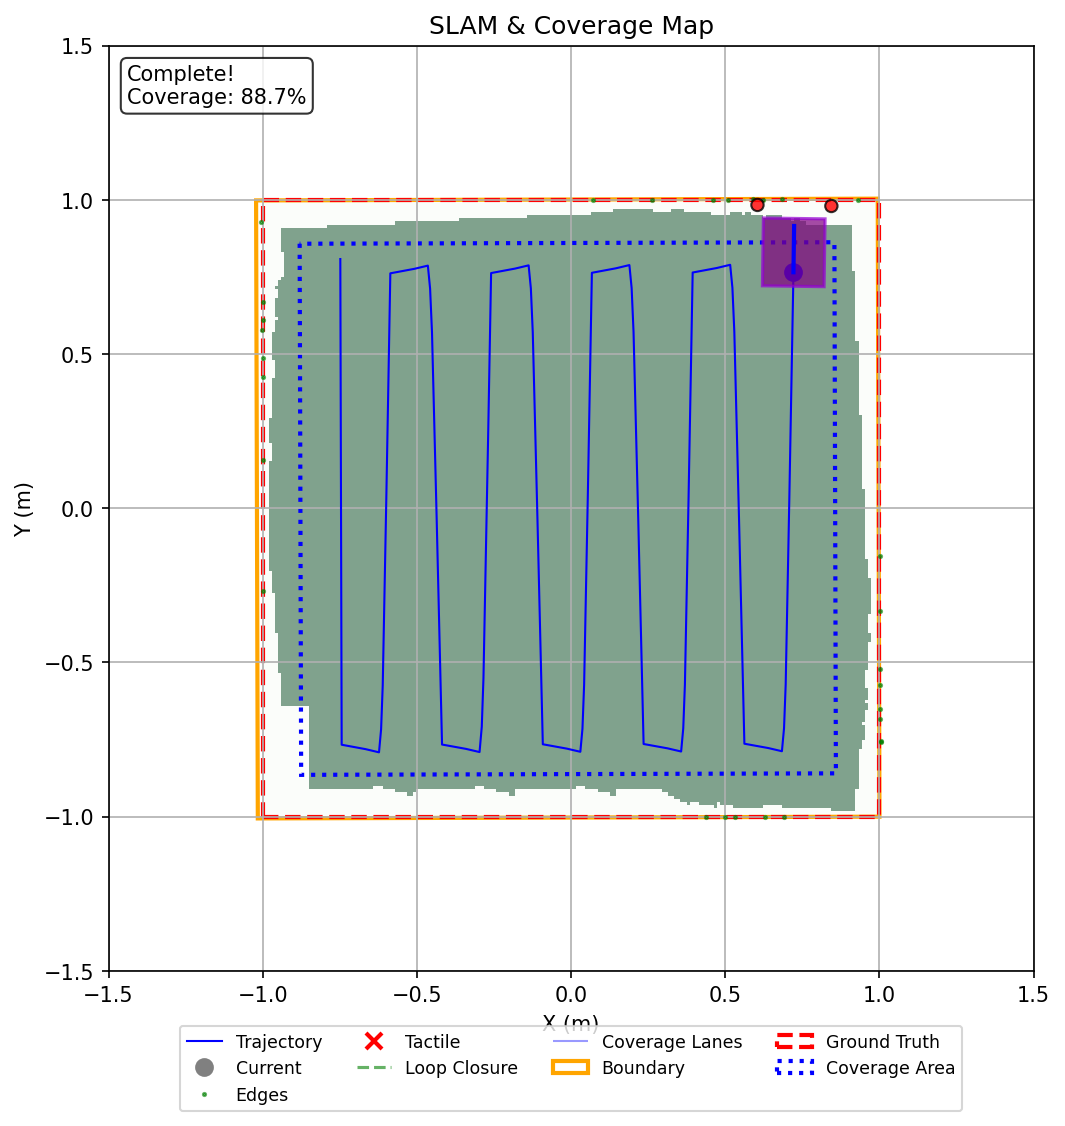
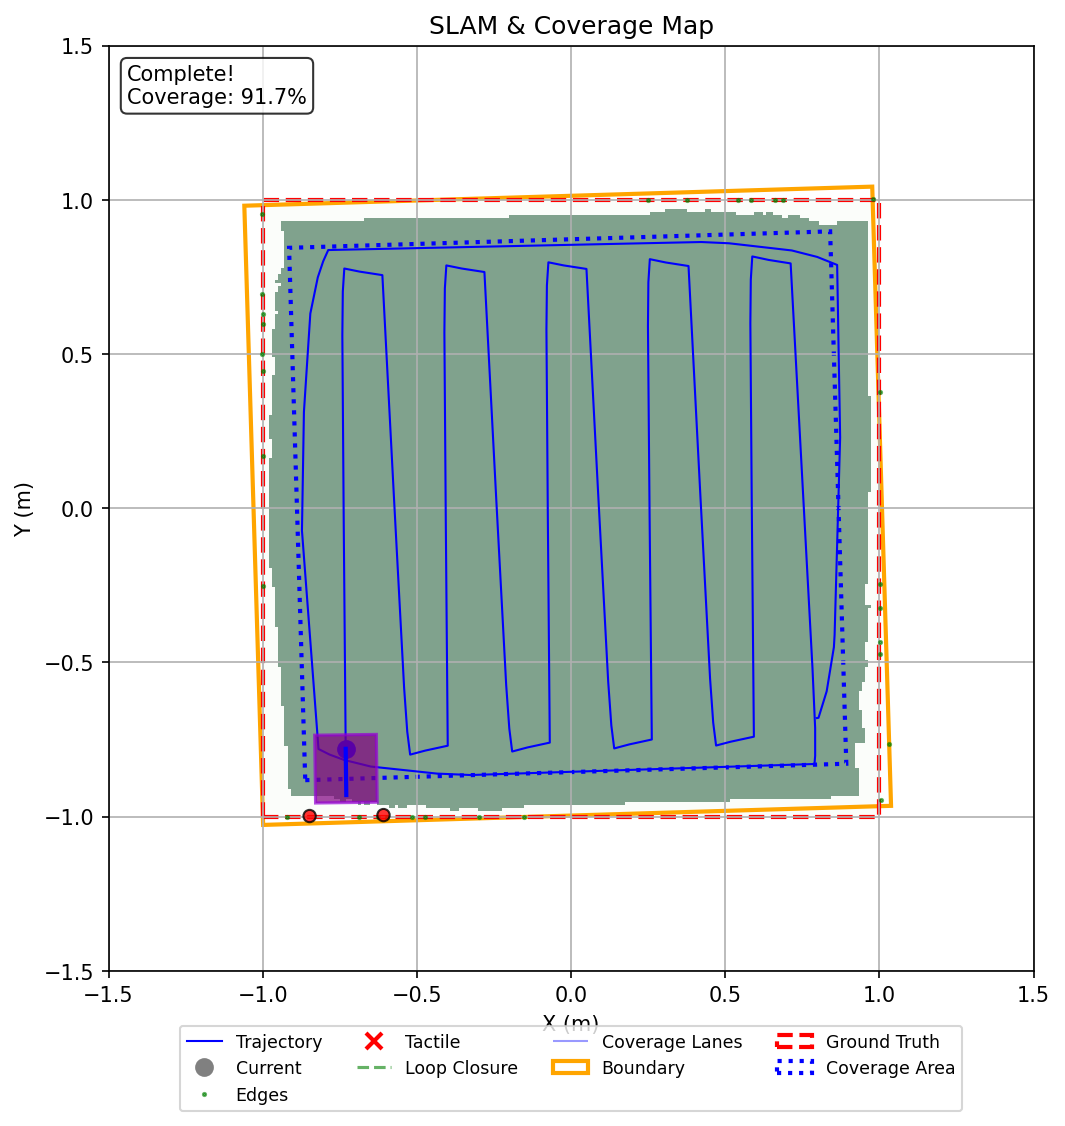
perfectly working

Changed region(s): [[0.2169, 0.1554, 0.8366, 0.746], [0.2169, 0.0622, 0.3099, 0.0933]]

diff --git a/planning/coverage.py b/planning/coverage.py
@@ -783,9 +783,15 @@ class CoveragePlanner:
         # Center remains the same, only dimensions change
         return (cx, cy, heading, inset_width, inset_height)
 
-    def build_lanes(self) -> List[List[Tuple[float, float]]]:
+    def build_lanes(
+        self, start_pose: Optional[Tuple[float, float, float]] = None
+    ) -> List[List[Tuple[float, float]]]:
         """
         Build boustrophedon lanes.
+
+        Args:
+            start_pose: Optional robot pose (x, y, theta) to optimize start point.
+                       If provided, will choose the corner closest to this pose.
 
         Returns:
             List of lanes, each lane is a list of waypoints
@@ -819,20 +825,23 @@ class CoveragePlanner:
             num_lanes = int(np.ceil(inner_width / lane_width))
             lane_spacing = inner_width / max(1, num_lanes)
             lane_length = inner_height
+            lanes_vertical = True
         else:
             # Lanes along width (horizontal)
             num_lanes = int(np.ceil(inner_height / lane_width))
             lane_spacing = inner_height / max(1, num_lanes)
             lane_length = inner_width
+            lanes_vertical = False
 
         # Rotation matrix
         c, s = np.cos(heading), np.sin(heading)
         R = np.array([[c, -s], [s, c]])
 
-        lanes = []
+        # Generate base lanes
+        base_lanes = []
         for i in range(num_lanes):
             # Compute lane endpoints in rectangle-local frame
-            if inner_width > inner_height:
+            if lanes_vertical:
                 # Vertical lanes
                 x_local = -inner_width / 2 + (i + 0.5) * lane_spacing
                 start_local = np.array([x_local, -inner_height / 2])
@@ -847,23 +856,88 @@ class CoveragePlanner:
             start_world = np.array([cx, cy]) + R @ start_local
             end_world = np.array([cx, cy]) + R @ end_local
 
-            # Alternate direction for boustrophedon pattern
-            if i % 2 == 0:
-                lane = [(start_world[0], start_world[1]), (end_world[0], end_world[1])]
-            else:
-                lane = [(end_world[0], end_world[1]), (start_world[0], start_world[1])]
+            base_lanes.append((start_world, end_world))
 
-            lanes.append(lane)
+        # Helper to create lanes list from base lanes with specific ordering
+        def create_lanes_variant(
+            reverse_order: bool, reverse_direction: bool
+        ) -> List[List[Tuple[float, float]]]:
+            variant_lanes = []
+            indices = range(num_lanes)
+            if reverse_order:
+                indices = reversed(indices)
 
-        self.lanes = lanes
+            for i, idx in enumerate(indices):
+                start, end = base_lanes[idx]
+                
+                # Determine direction for this lane (alternating)
+                # If reverse_direction is True, we flip the logic
+                # Standard: even indices (0, 2, ...) go start->end
+                #           odd indices (1, 3, ...) go end->start
+                
+                # However, "i" here is the index in the sequence of visitation
+                # So we just alternate based on i
+                
+                # Actually, to maintain the boustrophedon pattern correctly when reversing order,
+                # we need to be careful.
+                # Let's just define the direction based on the visitation index i.
+                
+                use_start_to_end = (i % 2 == 0)
+                if reverse_direction:
+                    use_start_to_end = not use_start_to_end
+                
+                if use_start_to_end:
+                    lane = [(start[0], start[1]), (end[0], end[1])]
+                else:
+                    lane = [(end[0], end[1]), (start[0], start[1])]
+                
+                variant_lanes.append(lane)
+            return variant_lanes
+
+        # If start_pose is provided, find the best variant
+        if start_pose is not None:
+            robot_pos = np.array([start_pose[0], start_pose[1]])
+            best_lanes = []
+            min_dist = float("inf")
+
+            # Try 4 variants
+            # 1. Normal order, normal direction
+            # 2. Normal order, reversed direction (start at other end of first lane)
+            # 3. Reversed order (start at last lane), normal direction
+            # 4. Reversed order, reversed direction
+            
+            variants = [
+                (False, False),
+                (False, True),
+                (True, False),
+                (True, True),
+            ]
+
+            for rev_order, rev_dir in variants:
+                candidate_lanes = create_lanes_variant(rev_order, rev_dir)
+                if not candidate_lanes:
+                    continue
+                    
+                # Check distance to start of first lane
+                first_pt = np.array(candidate_lanes[0][0])
+                dist = np.linalg.norm(robot_pos - first_pt)
+                
+                if dist < min_dist:
+                    min_dist = dist
+                    best_lanes = candidate_lanes
+            
+            self.lanes = best_lanes
+        else:
+            # Default behavior
+            self.lanes = create_lanes_variant(False, False)
 
         # Build complete path with orientations and transitions
         self.path = self._build_path_with_transitions(
-            lanes, heading, inner_width > inner_height
+            self.lanes, heading, lanes_vertical
         )
         self.current_waypoint_idx = 0
 
-        return lanes
+        return self.lanes
 
     def _build_path_with_transitions(
         self,

diff --git a/viz_demo.py b/viz_demo.py
@@ -399,7 +399,9 @@ def simulate_coverage(
     # Create coverage planner
     planner = CoveragePlanner()
     planner.set_rectangle(rectangle)
-    lanes = planner.build_lanes()
+    
+    # Pass current robot pose to optimize start point
+    lanes = planner.build_lanes(start_pose=robot.get_pose())
 
     print(f"Generated {len(lanes)} coverage lanes")
 
@@ -411,17 +413,16 @@ def simulate_coverage(
     if viz is None:
         viz = Visualizer(figsize=(14, 8))
 
-    # Reset robot to start of first lane with correct orientation
+    # Do NOT reset robot pose - continue from where wall following left off
+    # This ensures smooth transition without teleportation
+    
+    # Add a transition waypoint to the start of the first lane if needed
     if lanes:
         first_waypoint_data = planner.get_current_waypoint()
         if first_waypoint_data:
-            wx, wy, wtheta = first_waypoint_data
-            robot.pose = np.array([wx, wy, wtheta])  # Start with correct orientation
-        else:
-            # Fallback: use lane start point
-            start_waypoint = lanes[0][0]
-            robot.pose = np.array([start_waypoint[0], start_waypoint[1], 0.0])
-        robot.trajectory = [tuple(robot.pose)]
+            # Check if we need to add explicit path to start
+            # The planner path already includes transitions, but we might be far from the first point
+            pass
 
     # Simple pure pursuit controller
     def pure_pursuit(pose, waypoint, lookahead=0.15):
@@ -433,13 +434,16 @@ def simulate_coverage(
         dy = wy - y
         dist = np.sqrt(dx * dx + dy * dy)
 
+        # Desired heading
+        desired_theta = np.arctan2(dy, dx)
+
+        # Heading error
+        dtheta = desired_theta - theta
+        dtheta = ((dtheta + np.pi) % (2 * np.pi)) - np.pi  # Wrap to [-pi, pi]
+
         # If very close to waypoint, still allow small forward motion and turning
         # This prevents getting stuck when waypoints overlap or are very close
         if dist < 0.02:  # Very close - just turn towards next waypoint
-            # Desired heading
-            desired_theta = np.arctan2(dy, dx)
-            dtheta = desired_theta - theta
-            dtheta = ((dtheta + np.pi) % (2 * np.pi)) - np.pi  # Wrap to [-pi, pi]
             # Turn in place if heading error is large, otherwise allow small forward motion
             if abs(dtheta) > np.deg2rad(30):
                 return 0.0, 2.0 * dtheta * speed_multiplier
@@ -448,10 +452,22 @@ def simulate_coverage(
                     LIMS.V_BASE * 0.3 * speed_multiplier,
                     2.0 * dtheta * speed_multiplier,
                 )
+        
+        # If heading error is large, turn in place first
+        # This is critical for the transition from boundary discovery to coverage
+        # Relaxed constraint: only turn in place if error is > 45 degrees (was 20)
+        # This prevents getting stuck if we are slightly misaligned but can still move
+        if abs(dtheta) > np.deg2rad(45):
+             # Turn in place
+             v = 0.0
+             omega = 2.0 * dtheta * speed_multiplier
+             # Clamp omega
+             omega = np.clip(
+                omega, -LIMS.OMEGA_MAX * speed_multiplier, LIMS.OMEGA_MAX * speed_multiplier
+             )
+             return v, omega
+
         elif dist < 0.05:  # Close but not very close - slow forward motion
-            desired_theta = np.arctan2(dy, dx)
-            dtheta = desired_theta - theta
-            dtheta = ((dtheta + np.pi) % (2 * np.pi)) - np.pi
             v = LIMS.V_BASE * 0.3 * speed_multiplier
             omega = 2.0 * dtheta * speed_multiplier
             omega = np.clip(
@@ -460,13 +476,6 @@ def simulate_coverage(
                 LIMS.OMEGA_MAX * speed_multiplier,
             )
             return v, omega
-
-        # Desired heading
-        desired_theta = np.arctan2(dy, dx)
-
-        # Heading error
-        dtheta = desired_theta - theta
-        dtheta = ((dtheta + np.pi) % (2 * np.pi)) - np.pi  # Wrap to [-pi, pi]
 
         # Control
         v = LIMS.V_BASE if dist > lookahead else LIMS.V_BASE * 0.5
